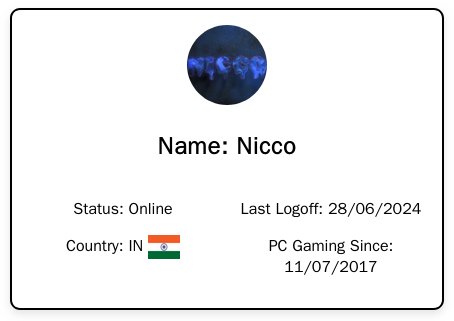
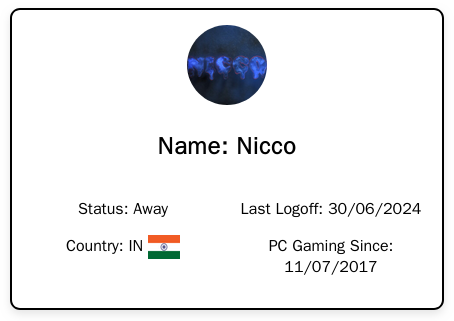
chore: Update Steam Stats

Changed region(s): [[0.1542, 0.6231, 0.37, 0.6854], [0.7093, 0.6231, 0.7709, 0.6854]]

diff --git a/assets/steam_summary.html b/assets/steam_summary.html
@@ -47,14 +47,14 @@
             <h2 id="name">Name: Nicco</h2>
             <div class="info-container">
                 <div class="info-left">
-                    <p id="status">Status: Online</p>
+                    <p id="status">Status: Away</p>
                     <p id="country">Country: <span id="country-code">IN</span>
                         <img id="flag" class="flag"
                         src="https://flagcdn.com/w320/in.png" alt="Flag">
                     </p>
                 </div>
                 <div class="info-right">
-                    <p id="lastlogoff">Last Logoff: 28/06/2024</p>
+                    <p id="lastlogoff">Last Logoff: 30/06/2024</p>
                     <p id="timecreated">PC Gaming Since: 11/07/2017</p>
                 </div>
             </div>

diff --git a/assets/steam_workshop_stats.html b/assets/steam_workshop_stats.html
@@ -56,11 +56,11 @@
             <tbody>
                 <tr>
                     <td>Unique Visitors</td>
-                    <td>3072</td>
+                    <td>3074</td>
                 </tr>
                 <tr>
                     <td>Current Subscribers</td>
-                    <td>1804</td>
+                    <td>1806</td>
                 </tr>
                 <tr>
                     <td>Current Favorites</td>
